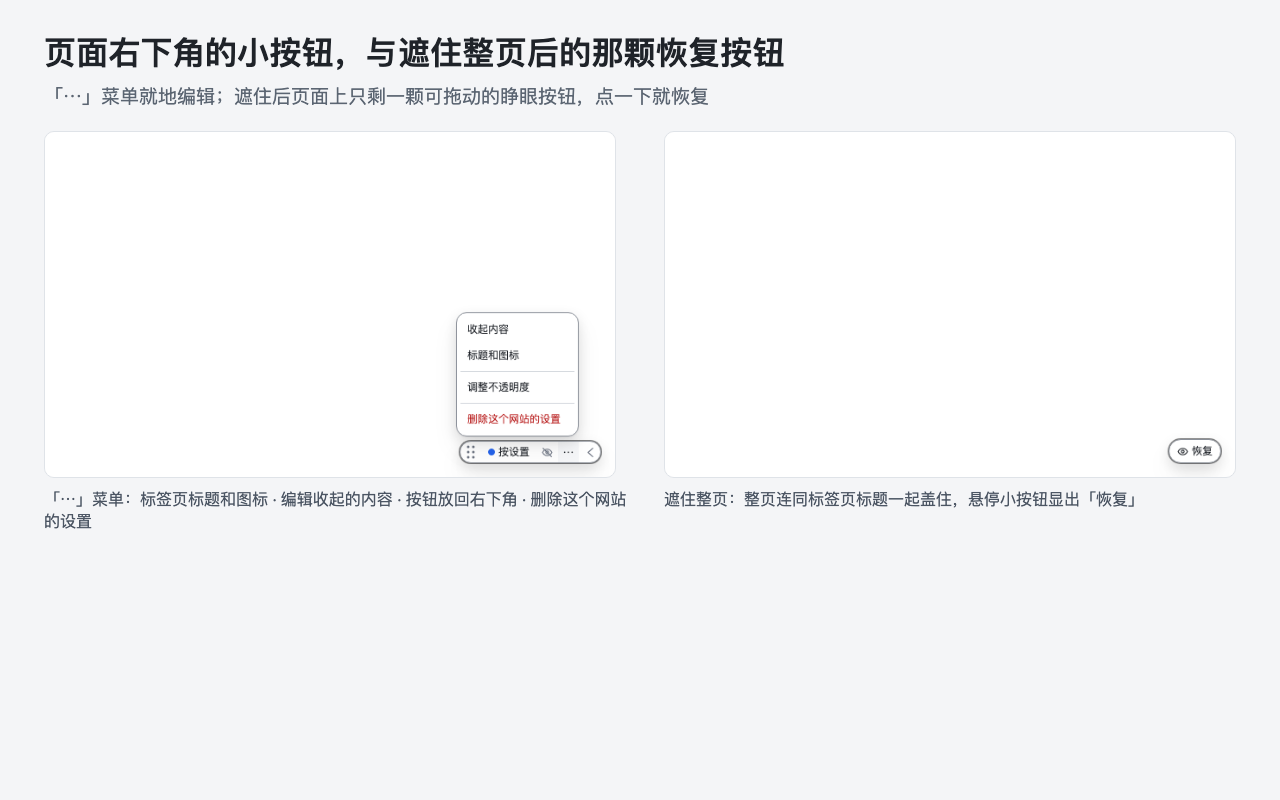
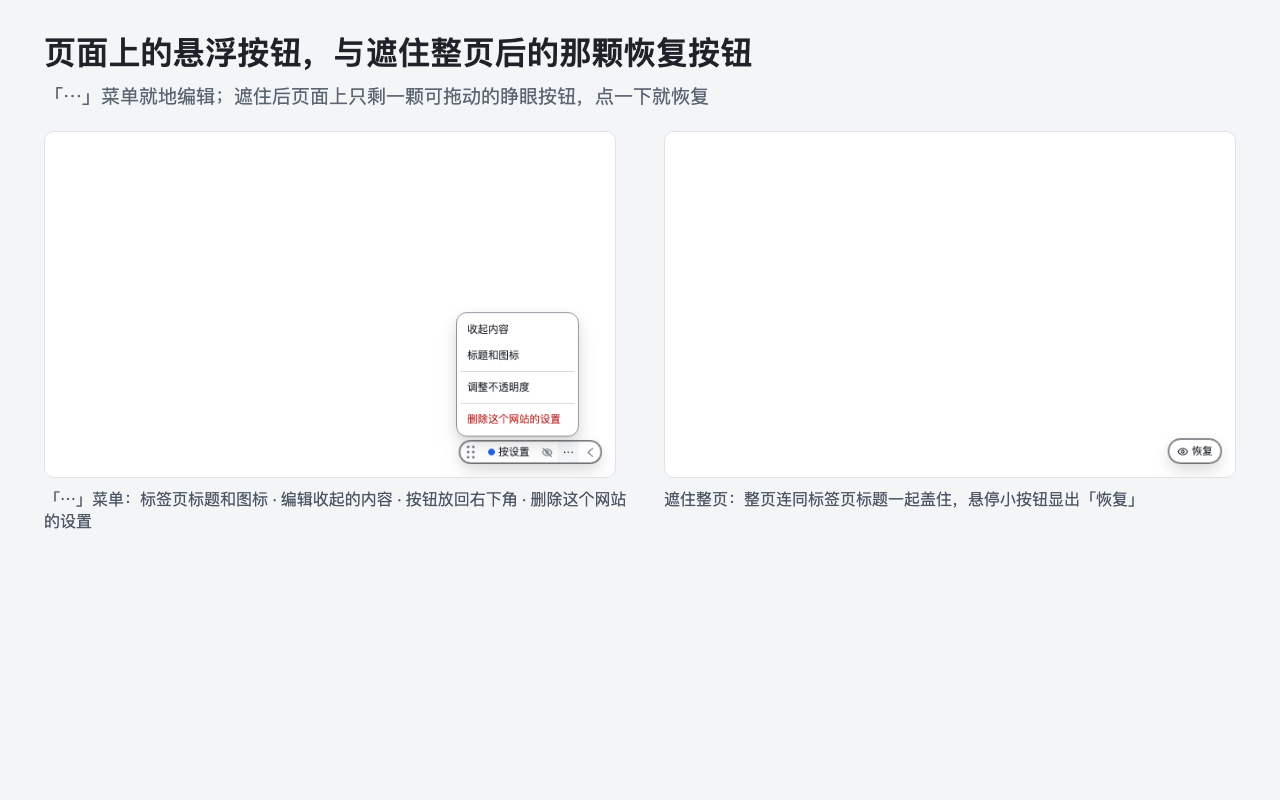
fix(ui): 「悬浮按钮」命名 + 两个管理页入口对齐 (#124)
装机反馈两条。

命名
- 「右下角的小按钮」是位置描述，不是名字：弹窗开关、插件设置卡片、欢迎页第 3 步
  统一改为「悬浮按钮」（Floating button），与内部术语 Floating Toggle 同源
- GLOSSARY 的 Avoid 补一条：描述位置的说法不进界面；README / CHROMEWEBSTORE /
  design.md 同步

入口对齐
- 两页互为兄弟，互跳入口做成同一个控件、同一个相对位置：标题行右侧的
  a.button.small；插件设置页顶部不再另放「← 全部网站设置」
- 顺带修老 bug：按钮基础样式写在 :where() 里（特异性 0），被 base.css 的
  a { color: accent } 盖掉，做成按钮的链接一直是蓝字 → 补 a.button 的字色
- E2E 断言两处入口的 class / 高度 / 字号 / 描边完全一致

测试侧
- 0.6.6 把退出改成次次确认后，五个 E2E 里「点退出等关闭」的收尾全断了：
  抽 exitWizardByButton（真鼠标点按钮 + DOM 点确认）
- check-language 那条不是产品问题：内容页在后台标签页，鼠标事件不投递，
  退出前先 bringToFront

门禁：compile、vitest 631、E2E 全套 817 项 + 深浅色、check:docs、check:package

Changed region(s): [[0.0625, 0.0312, 0.625, 0.0938]]

diff --git a/core/i18n/messages.zh.ts b/core/i18n/messages.zh.ts
@@ -120,7 +120,7 @@ export const zh = {
     editTitle: '标题和图标',
     coverPage: '遮住这一页',
     /** 右下角的小按钮开关（#112）：标签 + 开关下的一行小字 */
-    showToggle: '右下角的小按钮',
+    showToggle: '悬浮按钮',
     showToggleHint: '关掉后还能从工具栏图标打开 PageMask；遮住整页的快捷键不受影响。',
     /** 删除这个网站的设置（#112）：与站点设置页 / 胶囊菜单同一套文案（core/site-delete.ts） */
     deleting: '正在删除…',
@@ -233,7 +233,7 @@ export const zh = {
     pageTitle: 'PageMask · 插件设置',
     title: '插件设置',
     sub: '这里管的是所有网站共用的一套设置。',
-    back: '← 全部网站设置',
+    back: '全部网站设置',
 
     titleHeading: '默认标题',
     titleIntro: '打开某个网站的「标题和图标」时，这一项会预先填进去；遮住整页时，没单独设过标题的网站也用它。',
@@ -242,12 +242,12 @@ export const zh = {
       `留空就用「${fallback}」（跟随浏览器语言）。标题不能留成空白，空白时 Chrome 会改成显示网址。`,
 
 
-    toggleHeading: '右下角的小按钮',
+    toggleHeading: '悬浮按钮',
     toggleIntro: '「不透明度」调的是它闲着的时候有多淡；鼠标移上去、用键盘选中或拖动时，它会立刻变清楚。',
     toggleOpacityLabel: '不透明度',
     toggleOpacityLowHint: '调得太淡会不容易找到；鼠标移上去会变清楚。',
     toggleOpacityError: '不透明度没有存上，请再试一次。',
-    toggleHint: '只影响这颗小按钮，不影响遮住整页后那颗「恢复」。',
+    toggleHint: '只影响这颗悬浮按钮，不影响遮住整页后那颗「恢复」。',
 
     shortcutHeading: '快捷键',
     shortcutIntro: '有人走过来时，不用找鼠标：按一下遮住整页，再按一下恢复。',
@@ -321,7 +321,7 @@ export const zh = {
         ],
       },
       {
-        title: '平时用右下角那颗小按钮',
+        title: '平时用页面上的悬浮按钮',
         text: '在你添加过的网站上，它一直待在右下角：点中间切换「按设置 / 原样」，点眼睛遮住整页，点 ⋯ 进设置。',
         features: [],
       },

diff --git a/core/i18n/messages.en.ts b/core/i18n/messages.en.ts
@@ -97,7 +97,7 @@ export const en: Messages = {
     editTitle: 'Title & icon',
     coverPage: 'Cover this page',
     /** Show-capsule switch (#112): label + one-line hint under the switch */
-    showToggle: 'The small button in the corner',
+    showToggle: 'Floating button',
     showToggleHint: 'Turn it off and PageMask stays reachable from the toolbar icon; the cover shortcut keeps working.',
     /** Delete site settings (#112): same copy as the site settings page / capsule menu (core/site-delete.ts) */
     deleting: 'Deleting…',
@@ -208,7 +208,7 @@ export const en: Messages = {
     pageTitle: 'PageMask · Settings',
     title: 'Settings',
     sub: 'These are shared by every site.',
-    back: '← All site settings',
+    back: 'All site settings',
 
     titleHeading: 'Default title',
     titleIntro: 'Pre-filled when you open “Title & icon” for a site. Also used when you cover a page on a site that has no title of its own.',
@@ -217,7 +217,7 @@ export const en: Messages = {
       `Leave it empty to use “${fallback}” (follows the browser language). A title can’t be blank, or Chrome shows the address instead.`,
 
 
-    toggleHeading: 'The small button in the corner',
+    toggleHeading: 'Floating button',
     toggleIntro:
       'Opacity is how faint it sits when idle; it turns fully clear as soon as you hover, focus it with the keyboard, or drag it.',
     toggleOpacityLabel: 'Opacity',
@@ -297,8 +297,8 @@ export const en: Messages = {
         ],
       },
       {
-        title: 'The small button in the corner',
-        text: 'On sites you’ve added it stays at the bottom-right: click the middle to switch “Your settings / As is”, click the eye to cover the page, click ⋯ for settings.',
+        title: 'The floating button on the page',
+        text: 'On sites you’ve added, the floating button stays at the bottom-right: click the middle to switch “Your settings / As is”, click the eye to cover the page, click ⋯ for settings.',
         features: [],
       },
     ],

diff --git a/entrypoints/management/views/SitesView.vue b/entrypoints/management/views/SitesView.vue
@@ -1,9 +1,10 @@
 <template>
   <section class="view" aria-labelledby="pm-sites-title">
-    <!-- 标题行右侧给「插件设置」入口：插件设置页有「← 全部网站设置」返回，两页互达（#87 审查第 6 条） -->
+    <!-- 标题行右侧给「插件设置」入口（#124）：与插件设置页的「全部网站设置」同一个控件、
+         同一个位置、同一种次要按钮——两页互为兄弟，入口长相一致 -->
     <div class="sites-head">
       <h2 id="pm-sites-title" class="view-title">{{ t.management.sitesTitle }}</h2>
-      <a class="forward" href="settings.html" data-testid="pm-mgmt-settings-link">{{ t.popup.settings }}</a>
+      <a class="button small" href="settings.html" data-testid="pm-mgmt-settings-link">{{ t.popup.settings }}</a>
     </div>
     <p class="hint">{{ t.management.sitesHint }}</p>
 
@@ -181,20 +182,11 @@ function onRowDelete() {
 <style scoped>
 .sites-head {
   display: flex;
-  align-items: baseline;
+  /* 与右侧按钮居中对齐（#124）：baseline 会让按钮相对标题偏下 */
+  align-items: center;
   justify-content: space-between;
   gap: var(--pm-space-3);
   margin-bottom: var(--pm-space-1);
-}
-
-.forward {
-  flex: none;
-  font-size: var(--pm-font-size-caption);
-  color: var(--pm-fg-muted);
-}
-
-.forward:hover {
-  color: var(--pm-fg);
 }
 
 .view-title {

diff --git a/entrypoints/settings/App.vue b/entrypoints/settings/App.vue
@@ -1,9 +1,14 @@
 <template>
   <div class="shell">
-    <a class="back" href="management.html#/sites" data-testid="pm-settings-back">{{ t.settings.back }}</a>
-
     <header class="masthead">
-      <h1>{{ t.settings.title }}</h1>
+      <!-- 与「全部网站设置」同一个控件、同一个位置（#124）：两页互为兄弟，
+           入口都放在页面标题行的右侧，用同一种次要按钮 -->
+      <div class="masthead-row">
+        <h1>{{ t.settings.title }}</h1>
+        <a class="button small" href="management.html#/sites" data-testid="pm-settings-sites-link">
+          {{ t.settings.back }}
+        </a>
+      </div>
       <p class="sub">{{ t.settings.sub }}</p>
     </header>
 
@@ -420,14 +425,12 @@ function onReplaceClose() {
   padding: 0 var(--pm-space-4) 60px;
 }
 
-.back {
-  display: inline-block;
-  margin-bottom: var(--pm-space-3);
-  font-size: var(--pm-font-size-caption);
-}
-
-.back:hover {
-  text-decoration: underline;
+/* 标题行右侧给「全部网站设置」入口：与「插件设置」按钮同一套次要按钮（#124） */
+.masthead-row {
+  display: flex;
+  align-items: center;
+  justify-content: space-between;
+  gap: var(--pm-space-3);
 }
 
 .masthead h1 {

diff --git a/styles/controls.css b/styles/controls.css
@@ -43,6 +43,13 @@
   cursor: pointer;
 }
 
+/* 链接做成按钮时字色仍按按钮来（#124）：上面那组用了 :where()（特异性 0），
+ * base.css 的 a { color: accent } 会把它盖掉，扩展页面上的「按钮链接」就成了蓝字。
+ * 这里给足特异性；带 .danger / .primary 的链接不受影响（没有这种用法，也不该有）。 */
+a.button {
+  color: var(--pm-fg);
+}
+
 /* 悬停：底色加深一档；按下：再深一档。两档都保证文字与危险红 ≥4.5 */
 :where(body) :where(button, .button):hover:not(:disabled),
 :where(.pm-btn):hover:not(:disabled) {

diff --git a/docs/design.md b/docs/design.md
@@ -72,13 +72,13 @@
 | 界面 | 内容 |
 |---|---|
 | 插件弹窗 | 新老网站同构（#81）：当前站点摘要（有配置时：「按你的设置显示」开关、N 项收起设置、可能失效提示；没有配置时一句话说明这个网站还没设置过）+ 主按钮「收起内容」（进点选）+ 次按钮「标题和图标」（单步小表单）+「遮住这一页 / 恢复这一页」开关（没添加、已添加、需要允许访问的站点都能用；遮住后重新打开弹窗，按钮自己写着「恢复这一页」）+ 底部并排两个入口：「全部网站设置」「插件设置」。待授权站点（有配置、权限被收回）给「允许访问」 |
-| 悬浮切换按钮 | 有设置的站点就显示（标签页标题、图标、收起项任一非空；三样全空才不显示——只改过标题也要能看见入口）；按网站可在弹窗里关掉（#111：capsuleHidden，显示时回右下角 + 全功能）；整壳收到 WCAG 最小（高 26、可点区 24，#109），闲置不透明度 10%–100% 滑杆（#110，一碰回到 100%）；默认右下角的小按钮、可拖动（拖动把手）、记住位置（贴边 + 纵向位置）；四段：拖动把手、主按钮（切换「按设置」/「原样」）、「遮住」、「⋯」菜单。「⋯」菜单按用途分三组：标题和图标 / 收起内容（#77 起都进向导）｜ 按钮放回右下角 ｜ 删除这个网站的设置（红字）。**mini 形态**（#78）：状态圆点 + 遮住（一键直达）+ 展开，无文字/菜单/把手，全功能上一对图标钮互切，按站点记忆、缺省全功能。遮住整页期间整个按钮被幕布盖住，页面上只剩「遮住按钮」（见「幕布」）。本身设计得低调不显眼 |
+| 悬浮切换按钮 | 有设置的站点就显示（标签页标题、图标、收起项任一非空；三样全空才不显示——只改过标题也要能看见入口）；按网站可在弹窗里关掉（#111：capsuleHidden，显示时回右下角 + 全功能）；整壳收到 WCAG 最小（高 26、可点区 24，#109），闲置不透明度 10%–100% 滑杆（#110，一碰回到 100%）；默认悬浮按钮、可拖动（拖动把手）、记住位置（贴边 + 纵向位置）；四段：拖动把手、主按钮（切换「按设置」/「原样」）、「遮住」、「⋯」菜单。「⋯」菜单按用途分三组：标题和图标 / 收起内容（#77 起都进向导）｜ 按钮放回右下角 ｜ 删除这个网站的设置（红字）。**mini 形态**（#78）：状态圆点 + 遮住（一键直达）+ 展开，无文字/菜单/把手，全功能上一对图标钮互切，按站点记忆、缺省全功能。遮住整页期间整个按钮被幕布盖住，页面上只剩「遮住按钮」（见「幕布」）。本身设计得低调不显眼 |
 | 向导 · 收起内容（选内容 + 看效果） | 添加与修改收起设置的唯一流程（#77 三口归一，#81 起两步、无首次模式）：进入点选时现有规则已铺成草稿起点，已收起的项直接进选择集（统一编号、进同一份清单，点它就是从清单里去掉，再点回来自动按默认值加回）；选内容行内有「另外 N 个一样的也一起收起」的勾选框，勾谁看谁、一次一组亮组（整组一条描边，#100）；「下一步：看效果」列出全部草稿——行上改名、收起后看摘要（勾了同类的报「连一样的共 N 个」），「调整」里换方式（即时预览）、改「在哪些页面收起」（零输入）、高级（选择器原文，逐行校验）；「上一步：重新选内容」回点选还能加。保存时原地更新（保留 id 与体检记录），删掉的行随之移除 |
 | 向导 · 标题和图标（单步小表单） | 复用 TitleIconFields（与站点设置页同一份）：标题就地输入、快捷标题、图标三选一（同一个 IconPicker）；主按钮「保存」——新网站保存即建站（0 条收起设置 + 清爽态），老网站保存即更新且开关状态不变（#81）。保存过标题的网站，表单底部另有轻操作「恢复网站原来的标题和图标」（#99） |
 | 管理页 · 你添加的网站 | 独立页面（`management.html#/sites`）：已添加网站的列表，一行一站：图标、域名、「按你的设置显示」/「网站原样」、N 项收起设置、可能失效提示；需要允许访问的站点在这一行给出「允许访问」（多个时可「全部允许」）。点某一行进入该站的站点设置页 |
-| 管理页 · 站点设置 | 独立页面（`management.html#/sites/<域名>`）：单个网站的全部设置，四个区块与右下角小按钮的菜单同一批名字——标签页标题（含现成的标题）、标签页图标（网站原来的 / 不显示 / 换成内置的，同一个三态选择器）、收起的内容（可删除，5 秒内可撤销；换方式与重新选元素要到页面上做——点工具栏图标进「编辑收起的内容」，这一页只读清单，另给一句说明指过去）、删除这个网站的设置（红字，二次确认，列明影响）。保存过标题和图标的网站，在标题 / 图标两张卡之后另有「恢复网站原来的标题和图标」（#99）。标签页标题和图标的就地编辑入口在页面上，不在这里 |
-| 插件设置页 | 独立页面（`settings.html`，注册为 Chrome 的「扩展程序选项」且 `open_in_tab`）：界面语言（跟随浏览器 / 简体中文 / English）、默认标题（含现成的标题）、快捷键（当前实际绑定 + 「在 Chrome 里更改」，未绑定时给警告）、右下角小按钮的「不透明度」滑杆（10%–100%，#110：拖动即时预览、松手保存，≤30% 提示「调得太淡会不容易找到」）、导出/导入（导出文件含插件设置与版本号）、关于（版本号、仓库地址、反馈入口）；左上角返回「你添加的网站」 |
-| 首次引导 | 安装后 3 步图文：把 PageMask 固定到工具栏 / 弹窗里能做的三件事（收起内容、标题和图标、遮住这一页含快捷键）/ 平时用右下角那颗小按钮。第 2、3 步直接渲染真实的弹窗与胶囊组件（#103），不手画示意图——弹窗改版时欢迎页自动跟上 |
+| 管理页 · 站点设置 | 独立页面（`management.html#/sites/<域名>`）：单个网站的全部设置，四个区块与悬浮按钮的菜单同一批名字——标签页标题（含现成的标题）、标签页图标（网站原来的 / 不显示 / 换成内置的，同一个三态选择器）、收起的内容（可删除，5 秒内可撤销；换方式与重新选元素要到页面上做——点工具栏图标进「编辑收起的内容」，这一页只读清单，另给一句说明指过去）、删除这个网站的设置（红字，二次确认，列明影响）。保存过标题和图标的网站，在标题 / 图标两张卡之后另有「恢复网站原来的标题和图标」（#99）。标签页标题和图标的就地编辑入口在页面上，不在这里 |
+| 插件设置页 | 独立页面（`settings.html`，注册为 Chrome 的「扩展程序选项」且 `open_in_tab`）：界面语言（跟随浏览器 / 简体中文 / English）、默认标题（含现成的标题）、快捷键（当前实际绑定 + 「在 Chrome 里更改」，未绑定时给警告）、悬浮按钮的「不透明度」滑杆（10%–100%，#110：拖动即时预览、松手保存，≤30% 提示「调得太淡会不容易找到」）、导出/导入（导出文件含插件设置与版本号）、关于（版本号、仓库地址、反馈入口）；左上角返回「你添加的网站」 |
+| 首次引导 | 安装后 3 步图文：把 PageMask 固定到工具栏 / 弹窗里能做的三件事（收起内容、标题和图标、遮住这一页含快捷键）/ 平时用悬浮按钮。第 2、3 步直接渲染真实的弹窗与胶囊组件（#103），不手画示意图——弹窗改版时欢迎页自动跟上 |
 
 管理页与插件设置页是**两个独立页面**，不再是一个页面里的两个 tab；站点设置页有自己的地址（`#/sites/<域名>`），支持前进后退与深链。
 
@@ -99,7 +99,7 @@
 有人走近时的应急反应：一键把整个页面连同标签页标题、图标一起遮住，人走之后再一键恢复成点之前的样子——不管点之前是清爽态还是原样态。
 
 - **不写配置**：幕布是页面内的临时状态，不进站点配置、不改开关状态、不参与导入导出。只作用于当前标签页，同站其他标签页不受影响。待授权的站点（有配置、权限被收回）也能遮住，且用该站自己设置的标题。
-- **入口与形态**：弹窗上的「遮住这一页 / 恢复这一页」开关（能来回点，遮住后重开弹窗按钮自己写着「恢复这一页」），小按钮上的「遮住」，或键盘快捷键（默认 `Ctrl+Shift+X`，Mac 上 `⌘+Shift+X`；同一个键切换遮住 / 恢复）。三处入口作用于**每个文档唯一的一个页面级控制器**（#107、ADR-0011）：任何一处遮住，另外两处都能恢复；没添加过的网站经一次性脚本走同一个控制器，可反复遮 / 撤。快捷键算一次用户手势，没添加过的网站也能遮；改键在 `chrome://extensions/shortcuts`，界面上显示实际绑定。遮住后页面上只剩一颗**睁眼图标的小按钮**（见「遮住按钮」词条）：与右下角那颗小按钮同一套材质、可拖动、记住位置（已添加站点写回该站按钮坐标，一次性脚本写回一份全局位置）；常态 85% 不透明、只显示图标，悬停或键盘聚焦升到全不透明并显出「恢复」两个字。恢复即回到点击前的状态（ADR-0008）。
+- **入口与形态**：弹窗上的「遮住这一页 / 恢复这一页」开关（能来回点，遮住后重开弹窗按钮自己写着「恢复这一页」），小按钮上的「遮住」，或键盘快捷键（默认 `Ctrl+Shift+X`，Mac 上 `⌘+Shift+X`；同一个键切换遮住 / 恢复）。三处入口作用于**每个文档唯一的一个页面级控制器**（#107、ADR-0011）：任何一处遮住，另外两处都能恢复；没添加过的网站经一次性脚本走同一个控制器，可反复遮 / 撤。快捷键算一次用户手势，没添加过的网站也能遮；改键在 `chrome://extensions/shortcuts`，界面上显示实际绑定。遮住后页面上只剩一颗**睁眼图标的小按钮**（见「遮住按钮」词条）：与悬浮按钮同一套材质、可拖动、记住位置（已添加站点写回该站按钮坐标，一次性脚本写回一份全局位置）；常态 85% 不透明、只显示图标，悬停或键盘聚焦升到全不透明并显出「恢复」两个字。恢复即回到点击前的状态（ADR-0008）。
 - **内容与颜色**：幕布本体不放任何文字、logo——旧共识「不放任何图标」已推翻：纯色幕布上没有任何入口时用户找不到怎么回来，所以保留一颗图标按钮，但常态不显示文字、颜色低调。颜色取页面自己的画布底色（`html`/`body` 上第一个不透明的背景色），取不到时浅色页面用白、深色页面用近黑——固定白屏在深色页面上会一眼暴露"这不是这个页面"。
 - **标题与图标**：标题走和清爽态同一套（站点标题 > 全局默认 > 界面语言默认）；图标**固定全透明**（#121）——不管站点选的是「网站原来的图标」还是某个内置图标，遮住时都不能露出真图标。
 - **恢复必须按进入前的状态分支**：进入前是清爽态就还原成清爽标题，是原样态就还原成真实标题与图标。不能一律"还原成真实"，那样清爽态会当场露馅。

diff --git a/README.md b/README.md
@@ -23,7 +23,7 @@
 - **只想改标题也可以**：不收起任何元素，只为某个网站换个标签页标题 / 图标，一样是一份正经设置
 - **标签页标题与图标**：可为该网站设置标签页标题（默认「阅读」）和图标；图标三选一——网站原来的、不显示、或换成内置的 10 个图标之一。网站自己改标题时会被自动改回
 - **设置分成两个页面**：「全部网站设置」是网站列表，点进去是一个网站的设置页；「插件设置」放默认标题、导出 / 导入、界面语言与版本信息，也是 Chrome 的「扩展程序选项」
-- **每个网站一个开关**：点页面右下角的小按钮，就在「按你的设置显示」和「网站原样」之间切换，同一网站的所有标签页一起变
+- **每个网站一个开关**：点页面上的悬浮按钮，就在「按你的设置显示」和「网站原样」之间切换，同一网站的所有标签页一起变
 - **失效提醒**：网站改版导致某一项找不到目标时，会用人话提醒你重新选一次
 - **幕布**：弹窗上的「遮住这一页 / 恢复这一页」把整页连同标签页标题一起遮住，再点一下回到刚才的样子；遮住后页面上是一颗睁眼的小按钮，可以拖动，鼠标移上去显出「恢复」。没添加过的网站也能用；也可以按快捷键（默认 Ctrl+Shift+X，Mac 是 ⌘+Shift+X）——胶囊、弹窗、快捷键三个入口互相通用，任何一处遮住，另两处都能恢复
 - **胶囊可调可藏**：不透明度滑杆（10%–100%，调它闲着的时候有多淡，鼠标移上去立刻清楚）；嫌占地方可以在弹窗里按网站把它关掉，再打开时回到右下角、完整形态
@@ -80,7 +80,7 @@
 
 1. 打开想收拾的网站，点工具栏的 PageMask 图标，点「收起内容」或「标题和图标」，在 Chrome 的提示里选「允许」（第一次会问这一次）
 2. 「收起内容」分两步：在页面上点选要收起的内容（已经收起的项也在清单里，点它就去掉），再「看效果」确认——保存就完成了；「标题和图标」填完点「保存」
-3. 想临时看网站原样，点页面右下角的小按钮；想改收起的内容或标题图标，用弹窗上的两颗按钮，或小按钮旁边的「⋯」菜单
+3. 想临时看网站原样，点悬浮按钮；想改收起的内容或标题图标，用弹窗上的两颗按钮，或悬浮按钮旁边的「⋯」菜单
 4. 弹窗底部两个入口：「全部网站设置」（网站列表与每个网站的设置页）、「插件设置」（默认标题、导出 / 导入、界面语言、不透明度）
 5. 想临时挡住整页，用弹窗或小按钮上的「遮住」；恢复时点页面上的睁眼小按钮
 

diff --git a/CHANGELOG.md b/CHANGELOG.md
@@ -5,6 +5,30 @@
 This file follows [Keep a Changelog](https://keepachangelog.com/en/1.1.0/) and [Semantic Versioning](https://semver.org/).
 Under each version, the Chinese and English sections correspond item by item.
 
+## [0.6.7] - 2026-11-06
+
+### 中文
+
+#### 变更
+
+- **「右下角的小按钮」改叫「悬浮按钮」**：原来那个是位置描述，不像个名字。弹窗开关、插件设置的卡片标题、欢迎页第 3 步同步改（#124）
+- **两个管理页的互跳入口对齐**：都在页面标题行右侧、同一个次要按钮（有边框、深色字），插件设置页顶部不再另放一条「← 全部网站设置」（#124）
+
+#### 修复
+
+- **「插件设置」入口的字色是蓝的**：链接做成按钮时，全局的链接色盖住了按钮文字色；补一条 `a.button` 的字色，现在和旁边的按钮同色（#124）
+
+### English
+
+#### Changed
+
+- **"The small button in the corner" is now "Floating button"**: the old label described where it sits instead of naming it. The popup switch, the settings card and the welcome step all use the new name (#124)
+- **The two management pages now link to each other the same way**: same secondary button in the title row on the right; the settings page no longer has a separate "← All site settings" link at the top (#124)
+
+#### Fixed
+
+- **The "Extension settings" link was blue**: the global link colour overrode the button's text colour when a link is styled as a button; `a.button` now keeps the button colour (#124)
+
 ## [0.6.6] - 2026-11-06
 
 装机复核抓到的两处：面板挤、退出太容易误触。

diff --git a/docs/dev/DEVLOG.md b/docs/dev/DEVLOG.md
@@ -2,6 +2,13 @@
 
 按时间倒序记录开发过程中的关键事件、超出 `docs/design.md` 范围的临时决策及其理由。正式的架构决策写 `docs/adr/`，这里只记过程。
 
+## 0.6.7（2026-11-06，#124）：名字与入口对齐
+
+- **「右下角的小按钮」是描述，不是名字**：这说法从 0.5.x 的「去术语」改造里来（当时把「胶囊」换成了位置描述）。装机反馈「非常不正式」，改成行业通用的**「悬浮按钮」**（Floating button），与内部术语 Floating Toggle 同源。教训：去术语 ≠ 换成一句话描述，名字得是名字。
+- **两个管理页互跳入口不对等**：一个是最上方的蓝色文字链接、一个是标题行右侧的灰字。统一成「标题行右侧 + `a.button.small`」。
+- 连带挖出一个老 bug：**`a.button` 的字色一直是蓝的**。按钮基础样式写在 `:where(button, .button)` 里（特异性 0），被 `base.css` 的 `a { color: accent }` 盖掉。补 `a.button { color: var(--pm-fg) }`——否则「同一个控件」还是两种颜色。
+- 测试侧：0.6.6 把「退出设置」改成次次确认后，五个 E2E 里「点退出等关闭」的收尾全断了。抽了一个 `exitWizardByButton`（真鼠标点按钮 + DOM 点确认），并把「后台标签页里鼠标事件不投递」这条写进注释——check-language 就是栽在这上面，排查了半小时才发现不是产品 bug。
+
 ## 0.6.6（2026-11-06，#123）：两条都是上批自己挖的坑
 
 装机反馈「引导太窄、两边要留距离」＋「退出设置要二次确认」。
